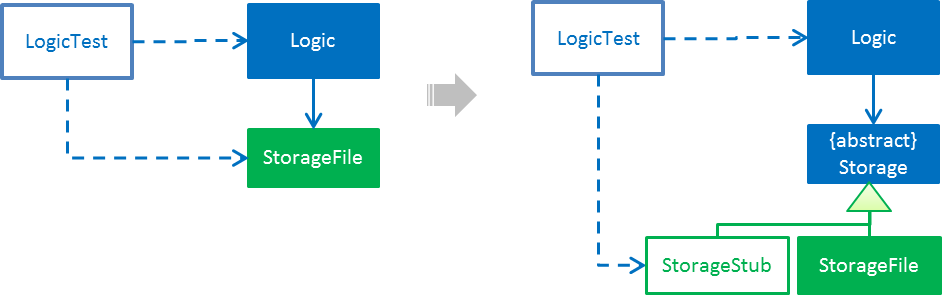
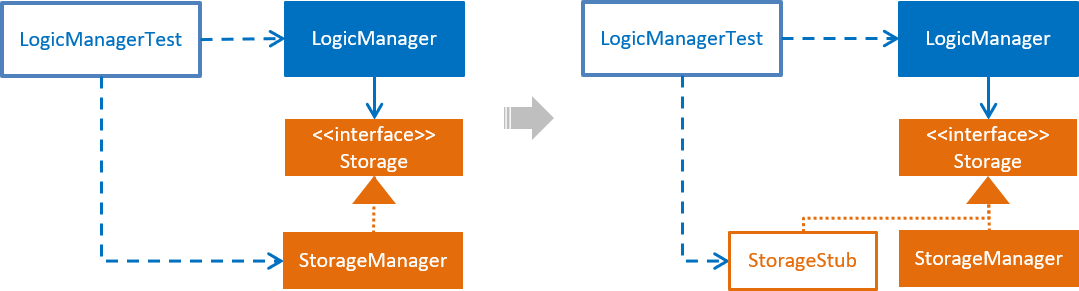
Rebuild pages at 540e785823346af9e54f20f7a74a739907d8d6d5

diff --git a/LearningOutcomes.html b/LearningOutcomes.html
@@ -377,9 +377,8 @@ This is an application of the Dependency Inversion Principle.</p>
 <h2 id="use-dependency-injection-code-lo-di-code"><a class="link" href="#use-dependency-injection-code-lo-di-code">Use Dependency Injection <code>[LO-DI]</code></a></h2>
 <div class="sectionbody">
 <div class="paragraph">
-<p>Note how <code>Logic</code> class depends on the <code>StorageFile</code> class. This means when testing the <code>Logic</code> class,
-our test cases execute the <code>StorageFile</code> class as well. What if we want to test the <code>Logic</code> class without
-getting the <code>StorageFile</code> class involved? That is a situation where we can use <em>Dependency Injection</em>.</p>
+<p>Notice how the <code>LogicManager</code> class does not depend on the <code>StorageManager</code> class, but depends on the <code>Storage</code> interface.
+This allows us to use <em>Dependency Injection</em> to test the <code>LogicManager</code> class without getting the <code>StorageManager</code> class involved.</p>
 </div>
 <div class="sect2">
 <h3 id="references-11"><a class="link" href="#references-11">References</a></h3>
@@ -396,41 +395,19 @@ getting the <code>StorageFile</code> class involved? That is a situation where w
 <div class="ulist">
 <ul>
 <li>
-<p>Change the implementation as follows so that we can inject a <code>StorageStub</code> when testing the <code>Logic</code>
-class.</p>
+<p>Notice how <code>LogicManagerTest</code> tests <code>LogicManager</code> by constructing a <code>StorageManager</code> object.</p>
+</li>
+<li>
+<p>Implement <code>StorageStub</code> such that calls to its <code>save*</code> methods do nothing (i.e. empty method body).</p>
+</li>
+<li>
+<p>Update <code>LogicManagerTest</code> to work with the <code>StorageStub</code> instead of the actual <code>StorageManager</code> object.
+i.e. <code>LogicManagerTest</code> injects a <code>StorageStub</code> object when constructing a <code>LogicManager</code> before testing it.</p>
 <div class="imageblock">
 <div class="content">
 <img src="images/DependencyInjection.png" alt="DependencyInjection" width="600">
 </div>
 </div>
-<div class="admonitionblock note">
-<table>
-<tr>
-<td class="icon">
-<i class="fa icon-note" title="Note"></i>
-</td>
-<td class="content">
-<div class="paragraph">
-<p>If you did the exercise in <a href="#apply-dependency-inversion-principle-lo-dip"><code>LO-DIP</code></a>
-already but those changes are in a different branch, you may be able to reuse some of those commits
-by cherry picking them from that branch to the branch you created for this exercise.</p>
-</div>
-<div class="paragraph">
-<p>Note: <em>cherry picking</em> is simply copy-pasting a commit from one branch to another. In SourceTree, you can
-right-click on the commit your want to copy to the current branch, and choose 'Cherry pick'.</p>
-</div>
-</td>
-</tr>
-</table>
-</div>
-</li>
-<li>
-<p>Implement the <code>StorageStub</code> such that calls to the <code>save</code> method do nothing (i.e. empty method body).<br></p>
-</li>
-<li>
-<p>Update the <code>LogicTest</code> to work with the <code>StorageStub</code> instead of the actual <code>StorageFile</code> object.
-i.e. <code>Logic</code> injects a <code>StorageStub</code> object to replace the dependency of <code>Logic</code> on <code>StorageFile</code> before
-testing <code>Logic</code>.</p>
 </li>
 <li>
 <p>The example above uses <a href="#apply-dependency-inversion-principle-lo-dip">DIP</a> as a means to achieve DI.
@@ -497,4 +474,4 @@ of storages, but different number of storages (e.g. save to both a text file and
 </div>
 </div>
 </div>
-</div></div><div id="footer"><div class="container"><div id="footer-text">Last updated 2019-06-11 14:23:41 UTC</div></div></div></body></html>
+</div></div><div id="footer"><div class="container"><div id="footer-text">Last updated 2019-06-21 09:00:16 UTC</div></div></div></body></html>

diff --git a/team/johndoe.html b/team/johndoe.html
@@ -416,4 +416,4 @@ If the <code>currentStatePointer</code> is at index <code>addressBookStateList.s
 <p><em>{Optionally, you may include other projects in your portfolio.}</em></p>
 </div>
 </div>
-</div></div><div id="footer"><div class="container"><div id="footer-text">Last updated 2019-06-11 14:23:41 UTC</div></div></div></body></html>
+</div></div><div id="footer"><div class="container"><div id="footer-text">Last updated 2019-06-21 09:00:16 UTC</div></div></div></body></html>

diff --git a/ContactUs.html b/ContactUs.html
@@ -12,4 +12,4 @@
 <p><strong>Email us</strong> : You can also reach us at <code>damith [at] comp.nus.edu.sg</code></p>
 </li>
 </ul>
-</div></div><div id="footer"><div class="container"><div id="footer-text">Last updated 2019-06-11 14:23:41 UTC</div></div></div></body></html>
+</div></div><div id="footer"><div class="container"><div id="footer-text">Last updated 2019-06-21 09:00:16 UTC</div></div></div></body></html>

diff --git a/UsingGradle.html b/UsingGradle.html
@@ -228,4 +228,4 @@ See <code>build.gradle</code> &#8594; <code>allprojects</code> &#8594; <code>dep
 </ul>
 </div>
 </div>
-</div></div><div id="footer"><div class="container"><div id="footer-text">Last updated 2019-06-11 14:23:41 UTC</div></div></div></body></html>
+</div></div><div id="footer"><div class="container"><div id="footer-text">Last updated 2019-06-21 09:00:16 UTC</div></div></div></body></html>

diff --git a/UsingNetlify.html b/UsingNetlify.html
@@ -123,4 +123,4 @@ The publish directory is the directory in which the built HTML documentation res
 </ol>
 </div>
 </div>
-</div></div><div id="footer"><div class="container"><div id="footer-text">Last updated 2019-06-11 14:23:41 UTC</div></div></div></body></html>
+</div></div><div id="footer"><div class="container"><div id="footer-text">Last updated 2019-06-21 09:00:16 UTC</div></div></div></body></html>

diff --git a/UsingCoveralls.html b/UsingCoveralls.html
@@ -96,4 +96,4 @@ If you have not set up Travis CI, see <a href="UsingTravis.html">UsingTravis.ado
 </ol>
 </div>
 </div>
-</div></div><div id="footer"><div class="container"><div id="footer-text">Last updated 2019-06-11 14:23:41 UTC</div></div></div></body></html>
+</div></div><div id="footer"><div class="container"><div id="footer-text">Last updated 2019-06-21 09:00:16 UTC</div></div></div></body></html>

diff --git a/UsingTravis.html b/UsingTravis.html
@@ -277,4 +277,4 @@ Suggested change: Remove the codacy badge from <code>README</code>.</p>
 </div>
 </div>
 </div>
-</div></div><div id="footer"><div class="container"><div id="footer-text">Last updated 2019-06-11 14:23:41 UTC</div></div></div></body></html>
+</div></div><div id="footer"><div class="container"><div id="footer-text">Last updated 2019-06-21 09:00:16 UTC</div></div></div></body></html>

diff --git a/UsingCheckstyle.html b/UsingCheckstyle.html
@@ -91,4 +91,4 @@ Restart the IDE to complete the installation.</p>
 </ul>
 </div>
 </div>
-</div></div><div id="footer"><div class="container"><div id="footer-text">Last updated 2019-06-11 14:23:41 UTC</div></div></div></body></html>
+</div></div><div id="footer"><div class="container"><div id="footer-text">Last updated 2019-06-21 09:00:16 UTC</div></div></div></body></html>

diff --git a/DeveloperGuide.html b/DeveloperGuide.html
@@ -2223,4 +2223,4 @@ Expected: Similar to previous.</p>
 </div>
 </div>
 </div>
-</div></div><div id="footer"><div class="container"><div id="footer-text">Last updated 2019-06-11 14:23:41 UTC</div></div></div></body></html>
+</div></div><div id="footer"><div class="container"><div id="footer-text">Last updated 2019-06-21 09:00:16 UTC</div></div></div></body></html>

diff --git a/HelpWindow.html b/HelpWindow.html
@@ -363,4 +363,4 @@ e.g. <code>find James Jake</code></p>
 </ul>
 </div>
 </div>
-</div></div><div id="footer"><div class="container"><div id="footer-text">Last updated 2019-06-11 14:23:41 UTC</div></div></div></body></html>
+</div></div><div id="footer"><div class="container"><div id="footer-text">Last updated 2019-06-21 09:00:16 UTC</div></div></div></body></html>

diff --git a/UserGuide.html b/UserGuide.html
@@ -363,4 +363,4 @@ e.g. <code>find James Jake</code></p>
 </ul>
 </div>
 </div>
-</div></div><div id="footer"><div class="container"><div id="footer-text">Last updated 2019-06-11 14:23:41 UTC</div></div></div></body></html>
+</div></div><div id="footer"><div class="container"><div id="footer-text">Last updated 2019-06-21 09:00:16 UTC</div></div></div></body></html>

diff --git a/AboutUs.html b/AboutUs.html
@@ -93,4 +93,4 @@ Responsibilities: UI</p>
 <hr>
 </div>
 </div>
-</div></div><div id="footer"><div class="container"><div id="footer-text">Last updated 2019-06-11 14:23:41 UTC</div></div></div></body></html>
+</div></div><div id="footer"><div class="container"><div id="footer-text">Last updated 2019-06-21 09:00:16 UTC</div></div></div></body></html>
